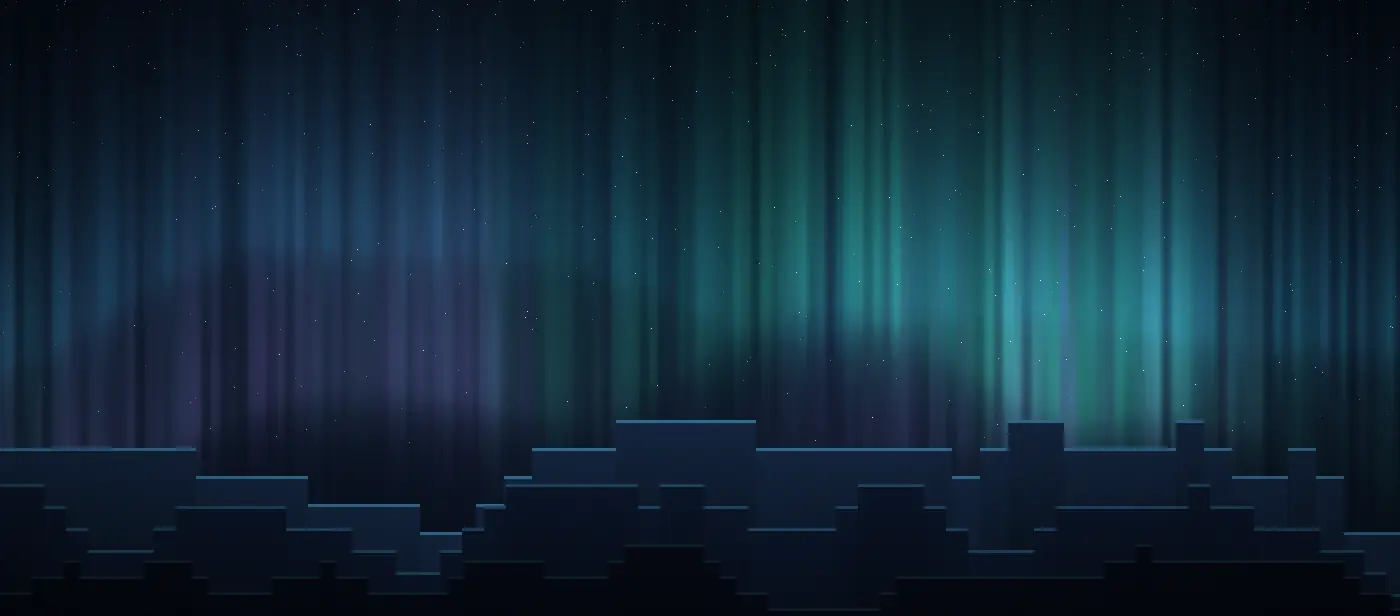
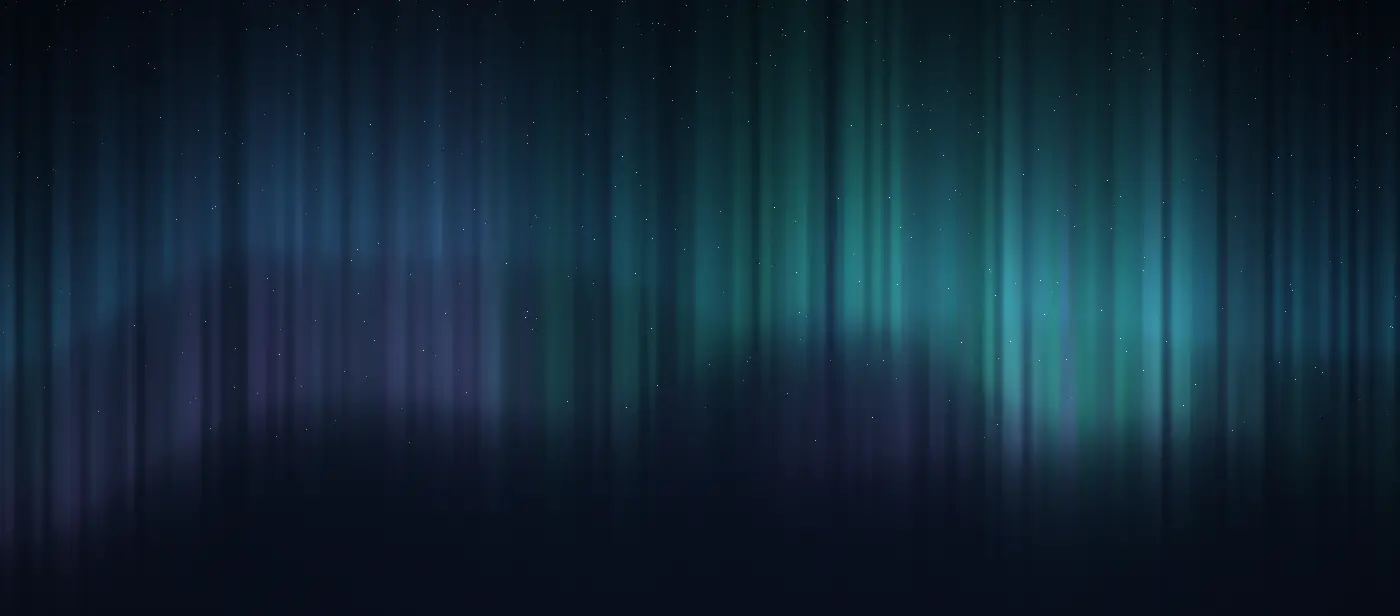
feat: kurumsal hero, Lua ve Roblox eklendi, söz Carl Jung'a atfedildi

diff --git a/generator/build.py b/generator/build.py
@@ -210,14 +210,14 @@ class Svg:
                 f'<style>{style}</style><defs>{"".join(self.defs)}</defs>{"".join(self.body)}</svg>')
 
 
-def panel(label, command, width, height, updated="", style=""):
-    """Dark terminal card shared by every data panel. Reads the same on light and dark GitHub themes."""
+def panel(label, title, width, height, updated="", style=""):
+    """Dark card shared by every data panel. Reads the same on light and dark GitHub themes."""
     svg = Svg(width, height, label, style)
     svg.defs.append(f'<linearGradient id="edge" x1="0" y1="0" x2="1" y2="0"><stop offset="0" stop-color="{TEAL}"/>'
                     f'<stop offset=".5" stop-color="{CYAN}"/><stop offset="1" stop-color="{VIOLET}"/></linearGradient>')
     svg.add(f'<rect x=".5" y=".5" width="{width - 1}" height="{height - 1}" rx="14" fill="{PANEL}" stroke="{LINE}"/>',
             f'<rect x="24" y="0" width="{width - 48}" height="1.5" fill="url(#edge)"/>',
-            svg.text("$", 24, 37, 15, TEAL, "monob"), svg.text(command, 42, 37, 15, INK2))
+            svg.text(title, 24, 39, 18, INK, "sansb"))
     if updated:
         svg.add(f'<circle cx="{width - 24 - svg.measure(updated, 12) - 13}" cy="32" r="3.5" fill="{TEAL}">'
                 '<animate attributeName="opacity" values="1;.25;1" dur="2.4s" repeatCount="indefinite"/></circle>',
@@ -231,126 +231,60 @@ def image_uri(name):
 
 # ─────────────────────────────── hero ────────────────────────────────
 
-LETTERS = {
-    "L": ("#....", "#....", "#....", "#....", "#....", "#....", "#####"),
-    "O": (".###.", "#...#", "#...#", "#...#", "#...#", "#...#", ".###."),
-    "R": ("####.", "#...#", "#...#", "####.", "#.#..", "#..#.", "#...#"),
-    "D": ("####.", "#...#", "#...#", "#...#", "#...#", "#...#", "####."),
-}
-TAGLINES = (
-    "backend developer @ AesirMC",
-    "software engineering @ Aksaray University",
-    "java · sql · docker · mongodb · redis",
-    "building game server infrastructure at scale",
-    "coffee.level = CRITICAL, refilling...",
-)
-
-
-def voxel_word(word, ox, oy, s):
-    """Extruded block letters in a cabinet projection. Faces: front, top, right."""
-    ux, uy = s, -s * 0.05         # one column to the right
-    bx, by = s * 0.46, -s * 0.34  # extrusion towards the back
-    columns = sum(5 for _ in word) + len(word) - 1
-    rng = random.Random(4)
-    cubes = []
-    col = 0
-    for letter in word:
-        for r, row in enumerate(LETTERS[letter]):
-            for c, cell in enumerate(row):
-                if cell == "#":
-                    cubes.append((col + c, 6 - r))
-        col += 6
-    cubes.sort(key=lambda p: (p[1], p[0]))  # bottom-up, left-to-right, so nearer faces paint last
-    out = []
-    for c, h in cubes:
-        x0, y0 = ox + c * ux, oy + c * uy - h * s
-        t = c / (columns - 1)
-        base = mix(TEAL, CYAN, t * 2) if t <= 0.5 else mix(CYAN, VIOLET, (t - 0.5) * 2)
-        front = [(x0, y0), (x0 + ux, y0 + uy), (x0 + ux, y0 + uy - s), (x0, y0 - s)]
-        top = [front[3], front[2], (front[2][0] + bx, front[2][1] + by), (front[3][0] + bx, front[3][1] + by)]
-        side = [front[1], (front[1][0] + bx, front[1][1] + by), (front[2][0] + bx, front[2][1] + by), front[2]]
-        pts = lambda p: " ".join(f"{num(a)},{num(b)}" for a, b in p)
-        delay = c * 28 + rng.randrange(0, 180)
-        shine = c * 90 + 1800
-        out.append(
-            f'<g class="drop" style="animation-delay:{delay}ms">'
-            f'<polygon points="{pts(side)}" fill="{mix(base, "#050814", .62)}"/>'
-            f'<polygon points="{pts(top)}" fill="{mix(base, "#FFFFFF", .42)}"/>'
-            f'<polygon points="{pts(front)}" fill="{mix(base, "#0A1020", .12)}" stroke="{mix(base, "#FFFFFF", .55)}" stroke-width=".7"/>'
-            f'<polygon class="shine" style="animation-delay:{shine}ms" points="{pts(front)}" fill="#FFF"/></g>')
-    return "".join(out)
-
-
-def typing_bar(svg, cx, y, size):
-    """Cycling typewriter line. Each row reveals through a stepped clip, driven by SMIL."""
-    per_line, hold = 4.2, 0.62
-    total = per_line * len(TAGLINES)
-    advance = GLYPHS["mono"]["a"][1] * size / 1000
-    prompt = "lord@aesirmc:~$ "
-    width = max(len(t) for t in TAGLINES) * advance + len(prompt) * advance
-    x = cx - width / 2
-    box = f'<rect x="{num(x - 18)}" y="{y - size - 12}" width="{num(width + 36)}" height="{size + 28}" rx="9" fill="#060A12" fill-opacity=".72" stroke="#FFFFFF" stroke-opacity=".12"/>'
-    text_x = x + len(prompt) * advance
-    rows = []
-    for i, line in enumerate(TAGLINES):
-        n = len(line)
-        start, typed, end = i / len(TAGLINES), (i + hold) / len(TAGLINES), (i + 0.97) / len(TAGLINES)
-        times, widths = [0.0], [0.0]
-        for k in range(n + 1):
-            times.append(start + (typed - start) * 0.72 * k / n)
-            widths.append(k * advance + (advance if k == n else 0))
-        if i == 0:
-            times, widths = times[1:], widths[1:]
-        times += [end, min(end + 0.0005, 1.0)]
-        widths += [widths[-1], 0.0]
-        if times[-1] < 1:
-            times.append(1.0)
-            widths.append(0.0)
-        svg.defs.append(
-            f'<clipPath id="ty{i}"><rect x="{num(text_x)}" y="{y - size - 8}" width="0" height="{size + 20}">'
-            f'<animate attributeName="width" calcMode="discrete" dur="{total}s" repeatCount="indefinite" '
-            f'values="{";".join(num(w) for w in widths)}" keyTimes="{";".join(f"{t:.4f}" for t in times)}"/></rect></clipPath>')
-        rows.append(f'<g clip-path="url(#ty{i})">{svg.text(line, text_x, y, size, INK)}</g>')
-    return box + svg.text(prompt.rstrip(), x, y, size, TEAL, "monob") + "".join(rows)
-
-
-def hero(layout):
+def hero(d, layout):
     wide = layout == WIDE
-    width, height = (WIDE, 460) if wide else (NARROW, 420)
-    style = (".drop{animation:drop 1s cubic-bezier(.2,1.25,.35,1) both}"
-             "@keyframes drop{from{transform:translateY(-420px);opacity:0}}"
-             ".shine{opacity:0;animation:shine 9s ease-in-out infinite}"
-             "@keyframes shine{0%,7%,100%{opacity:0}3.5%{opacity:.5}}"
-             ".fade{animation:fade 12s ease-in-out infinite alternate}"
-             "@keyframes fade{0%,25%{opacity:0}75%,100%{opacity:1}}"
-             ".up{animation:up 1s ease-out both}@keyframes up{from{transform:translateY(14px);opacity:0}}"
-             ".mote{animation:mote linear infinite}"
-             "@keyframes mote{from{transform:translateY(0);opacity:0}15%{opacity:.8}to{transform:translateY(-170px);opacity:0}}")
-    svg = Svg(width, height, "Lord — Mahmut Taylan Öztürk. Backend Developer, Java Ecosystem, Game Server Architect.", style)
+    width, height = (WIDE, 400) if wide else (NARROW, 470)
+    style = (".fade{animation:fade 14s ease-in-out infinite alternate}"
+             "@keyframes fade{0%,20%{opacity:0}80%,100%{opacity:1}}"
+             ".up{animation:up .9s ease-out both}@keyframes up{from{transform:translateY(10px);opacity:0}}")
+    svg = Svg(width, height, "Mahmut Taylan Öztürk. Backend Developer: Java ecosystem, game server architecture and Roblox development.", style)
     svg.defs.append(f'<clipPath id="card"><rect width="{width}" height="{height}" rx="16"/></clipPath>'
-                    '<linearGradient id="veil" x1="0" y1="0" x2="0" y2="1"><stop offset=".45" stop-color="#050812" stop-opacity="0"/>'
-                    '<stop offset="1" stop-color="#050812" stop-opacity=".82"/></linearGradient>')
-    image = 'x="{x}" y="0" width="{w}" height="{h}" preserveAspectRatio="xMidYMid slice"'.format(
-        x=0 if wide else -240, w=WIDE, h=height)
+                    '<linearGradient id="scrim" x1="0" y1="0" x2="1" y2="0"><stop offset="0" stop-color="#070B13"/>'
+                    '<stop offset=".5" stop-color="#070B13" stop-opacity=".8"/><stop offset="1" stop-color="#070B13" stop-opacity=".04"/></linearGradient>'
+                    f'<linearGradient id="rule" x1="0" y1="0" x2="1" y2="0"><stop offset="0" stop-color="{TEAL}"/>'
+                    f'<stop offset=".5" stop-color="{CYAN}"/><stop offset="1" stop-color="{VIOLET}"/></linearGradient>')
+    image = f'x="{0 if wide else -240}" y="0" width="{WIDE}" height="{height}" preserveAspectRatio="xMidYMid slice"'
     svg.add('<g clip-path="url(#card)">',
             f'<image {image} href="{image_uri("aurora-a.webp")}"/>',
             f'<image class="fade" {image} href="{image_uri("aurora-b.webp")}"/>',
-            f'<rect width="{width}" height="{height}" fill="url(#veil)"/>')
-    rng = random.Random(9)
-    for _ in range(12):
-        x, y, s = rng.uniform(30, width - 30), rng.uniform(height * .7, height - 16), rng.choice((2, 3))
-        svg.add(f'<rect class="mote" style="animation-duration:{rng.uniform(7, 15):.1f}s;animation-delay:-{rng.uniform(0, 15):.1f}s" '
-                f'x="{x:.0f}" y="{y:.0f}" width="{s}" height="{s}" fill="{rng.choice((TEAL, CYAN, VIOLET))}"/>')
-    block = 25 if wide else 17
-    word_w = 23 * block + block * .46
-    svg.add(voxel_word("LORD", (width - word_w) / 2, (256 if wide else 190), block))
-    cx = width / 2
-    name_y, role_y, bar_y = (318, 350, 410) if wide else (250, 282, 366)
-    svg.add(f'<g class="up" style="animation-delay:1.4s">{svg.text("Mahmut Taylan Öztürk", cx, name_y, 36 if wide else 30, "#FFFFFF", "sansb", "middle", .4)}</g>')
-    role = ("BACKEND DEVELOPER  ·  JAVA ECOSYSTEM  ·  GAME SERVER ARCHITECT", 14.5, 2.2) if wide else ("BACKEND  ·  JAVA  ·  GAME SERVERS", 13.5, 2)
-    svg.add(f'<g class="up" style="animation-delay:1.6s">{svg.text(role[0], cx, role_y, role[1], "#BFD4E6", "mono", "middle", role[2])}</g>')
-    svg.add(f'<g class="up" style="animation-delay:1.9s">{typing_bar(svg, cx, bar_y, 16 if wide else 12.5)}</g>')
-    svg.add(f'<rect x=".75" y=".75" width="{width - 1.5}" height="{height - 1.5}" rx="15.5" fill="none" stroke="#FFF" stroke-opacity=".1" stroke-width="1.5"/></g>')
+            f'<rect width="{width}" height="{height}" fill="url(#scrim)"/>',
+            f'<rect width="{width}" height="2" fill="url(#rule)"/>')
+    figures = ((fmt(d["all_time"]), "CONTRIBUTIONS"), ("800K+", "LINES OF JAVA"), (str(d["longest"]), "DAY LONGEST STREAK"))
+    soft = "#C6D3E0"
+    if wide:
+        left = 56
+        svg.add('<g class="up">', svg.text("BACKEND DEVELOPER", left, 92, 13, TEAL, "monob", spacing=3.2),
+                svg.text("Mahmut Taylan", left, 164, 68, "#FFFFFF", "sansb", spacing=-.6),
+                svg.text("Öztürk", left, 236, 68, "#FFFFFF", "sansb", spacing=-.6),
+                svg.text("Java ecosystem, game server architecture", left, 282, 18, soft, "sans"),
+                svg.text("and Roblox development.", left, 308, 18, soft, "sans"),
+                svg.text("AesirMC   ·   Aksaray University   ·   Türkiye", left, 352, 13, "#93A3B7"), "</g>")
+        rx = 690
+        svg.add(f'<g class="up" style="animation-delay:.25s"><rect x="{rx - 38}" y="72" width="1" height="256" fill="#FFF" fill-opacity=".16"/>')
+        for i, (value, caption) in enumerate(figures):
+            y = 112 + i * 92
+            svg.add(svg.text(value, rx, y, 44, "#FFFFFF", "sansb"),
+                    svg.text(caption, rx, y + 24, 11.5, soft, spacing=1.6))
+            if i < 2:
+                svg.add(f'<rect x="{rx}" y="{y + 42}" width="250" height="1" fill="#FFF" fill-opacity=".12"/>')
+        svg.add("</g>")
+    else:
+        left = 32
+        svg.add('<g class="up">', svg.text("BACKEND DEVELOPER", left, 62, 12.5, TEAL, "monob", spacing=3),
+                svg.text("Mahmut Taylan", left, 124, 56, "#FFFFFF", "sansb", spacing=-.5),
+                svg.text("Öztürk", left, 184, 56, "#FFFFFF", "sansb", spacing=-.5),
+                svg.text("Java ecosystem, game server architecture", left, 228, 16.5, soft, "sans"),
+                svg.text("and Roblox development.", left, 252, 16.5, soft, "sans"), "</g>")
+        cell = (width - 2 * left) / 3
+        svg.add('<g class="up" style="animation-delay:.25s">',
+                f'<rect x="{left}" y="288" width="{width - 2 * left}" height="1" fill="#FFF" fill-opacity=".16"/>')
+        for i, (value, caption) in enumerate(figures):
+            x = left + i * cell
+            svg.add(svg.text(value, x, 340, 32, "#FFFFFF", "sansb"))
+            for k, part in enumerate(caption.replace("DAY LONGEST ", "DAY LONGEST|").replace("LINES OF ", "LINES OF|").split("|")):
+                svg.add(svg.text(part, x, 362 + k * 15, 10, soft, spacing=1))
+        svg.add("</g>", svg.text("AesirMC   ·   Aksaray University   ·   Türkiye", left, 430, 12.5, "#93A3B7"))
+    svg.add(f'<rect x=".75" y=".75" width="{width - 1.5}" height="{height - 1.5}" rx="15.5" fill="none" stroke="#FFF" stroke-opacity=".08" stroke-width="1.5"/></g>')
     return svg
 
 
@@ -410,7 +344,7 @@ def stats(d, layout):
             ".rise{animation:grow .9s cubic-bezier(.2,.9,.3,1) both;transform-box:fill-box;transform-origin:bottom}@keyframes grow{from{transform:scaleY(0)}}"
     label = (f"GitHub stats: {fmt(d['year_total'])} contributions in the last 12 months, {fmt(d['all_time'])} all time, "
              f"longest streak {d['longest']} days, current streak {d['streak']} days, best day {d['peak']}.")
-    svg = panel(label, "git log --stat", width, height, f"updated {d['updated']}", style)
+    svg = panel(label, "GitHub Statistics", width, height, f"updated {d['updated']}", style)
     share = round(d["active"] / d["days"] * 100)
     peak_day = dt.date.fromisoformat(d["peak_date"]).strftime("%d %b %Y")
     gap = 12
@@ -472,11 +406,11 @@ def city(d, layout):
     height = int(origin_y + 7 * by + 74)
     style = ".wk{animation:rise .7s cubic-bezier(.2,1.1,.35,1) both}@keyframes rise{from{transform:translateY(46px);opacity:0}}"
     label = f"Contribution city: {fmt(d['year_total'])} contributions in the last 12 months, drawn as one voxel column per day."
-    svg = panel(label, "render --city ./contributions", width, height, f"{fmt(d['year_total'])} in 12 months", style)
+    svg = panel(label, "Contribution City", width, height, "", style)
     peak = max(c for w in weeks for _, c in w) or 1
     if wide:
-        svg.add(svg.text("Contribution City", 30, 98, 30, INK, "sansb"),
-                svg.text("One tower for every day of the last year.", 30, 124, 13.5, INK2))
+        svg.add(svg.text(fmt(d["year_total"]), 30, 112, 46, INK, "sansb"),
+                svg.text("contributions in the last 12 months, one tower per day", 30, 138, 13.5, INK2))
 
     def project(w, day, lift=0.0):
         return origin_x + w * ax + day * bx, origin_y - w * ay + day * by - lift
@@ -575,7 +509,7 @@ def activity(d, layout):
     style = (".draw{stroke-dasharray:1;stroke-dashoffset:0;animation:draw 2.2s ease-out both}@keyframes draw{from{stroke-dashoffset:1}}"
              ".area{animation:show 1.2s 1.2s both}.pin{animation:show .5s 2s both}@keyframes show{from{opacity:0}}")
     label = f"Activity graph: {fmt(total)} contributions in the last {span} days."
-    svg = panel(label, f"git activity --days {span}", width, height, f"{fmt(total)} in {span} days · {num(total / span)} per day", style)
+    svg = panel(label, f"Activity, Last {span} Days", width, height, f"{fmt(total)} in {span} days · {num(total / span)} per day", style)
     left, right, top, bottom = 52, width - 26, 66, height - 42
     ceiling = nice_ceiling(max(c for _, c in days))
     sx = lambda i: left + (right - left) * i / (len(days) - 1)
@@ -615,7 +549,7 @@ def languages(d, layout):
     height = 70 + rows * 44 + 8
     style = ".bar{animation:grow 1.2s cubic-bezier(.2,.9,.3,1) both;transform-box:fill-box;transform-origin:left}@keyframes grow{from{transform:scaleX(0)}}"
     summary = ", ".join(f"{n} {s * 100:.1f}%" for n, s in entries[:5])
-    svg = panel(f"Top languages: {summary}.", "linguist --top 8", width, height, "public + private projects", style)
+    svg = panel(f"Top languages: {summary}.", "Top Languages", width, height, "public + private projects", style)
     col_w = (width - 48 - 32 * (columns - 1)) / columns
     name_w, value_w = 92, 56
     track_w = col_w - name_w - value_w
@@ -666,7 +600,7 @@ def trophies(d, layout):
     style = (".sweep{animation:sweep 6s ease-in-out infinite}@keyframes sweep{0%,55%{transform:translateX(-120px)}85%,100%{transform:translateX(120px)}}"
              ".medal{animation:pop .7s cubic-bezier(.2,1.5,.4,1) both;transform-box:fill-box;transform-origin:center}@keyframes pop{from{transform:scale(.4);opacity:0}}")
     label = "Trophies: " + ", ".join(f"{t} {TIERS[r][1].title()}" for r, t, _ in earned) + "."
-    svg = panel(label, "achievements --earned", width, int(height), style=style)
+    svg = panel(label, "Trophies", width, int(height), style=style)
     R = 44
     for i, (tier, title, shown) in enumerate(earned):
         col, row = i % per_row, i // per_row
@@ -691,14 +625,14 @@ def trophies(d, layout):
 
 STACK = (
     ("LANGUAGES", (("java", "Java", "#F89820"), ("kotlin", "Kotlin", "#A97BFF"), ("typescript", "TypeScript", "#3178C6"),
-                   ("python", "Python", "#FFD43B"), ("javascript", "JavaScript", "#F7DF1E"), ("text:C#", "C#", "#9B6BDF"))),
+                   ("python", "Python", "#FFD43B"), ("javascript", "JavaScript", "#F7DF1E"), ("lua", "Lua", "#7C8FF5"), ("text:C#", "C#", "#9B6BDF"))),
     ("DATA", (("mongodb", "MongoDB", "#47A248"), ("redis", "Redis", "#FF5A4F"), ("mariadb", "MariaDB", "#C0765A"),
               ("text:My", "MySQL", "#5B9BD5"), ("postgresql", "PostgreSQL", "#6C93D9"))),
     ("INFRA", (("docker", "Docker", "#2496ED"), ("linux", "Linux", "#FCC624"), ("nginx", "Nginx", "#21B05A"),
                ("grafana", "Grafana", "#F46800"), ("actions", "Actions", "#5A9BF6"), ("gradle", "Gradle", "#3DB8C5"),
                ("git", "Git", "#F05032"))),
-    ("GAME SERVER", ((None, "Minecraft", "#62B47A"), (None, "PaperMC", "#EDEDED"), (None, "Velocity", "#3CC8D0"),
-                     ("pterodactyl", "Pterodactyl", "#6AA6E8"), (None, "ProtocolLib", "#C98BFF"))),
+    ("GAME DEV", (("roblox", "Roblox", "#E8EEF5"), ("robloxstudio", "Roblox Studio", "#38A7FF"), (None, "Minecraft", "#62B47A"), (None, "PaperMC", "#EDEDED"), (None, "Velocity", "#3CC8D0"),
+                     ("pterodactyl", "Pterodactyl", "#6AA6E8"))),
 )
 
 
@@ -726,7 +660,7 @@ def stack(layout):
     height = 62
     for _, lines in blocks:
         height += (len(lines) * (chip_h + 8)) + (22 if not wide else 0) + 10
-    svg = panel(f"Tech stack: {names}.", "ls ~/stack", width, height + 8, style=style)
+    svg = panel(f"Tech stack: {names}.", "Technology Stack", width, height + 8, style=style)
     for caption, lines in blocks:
         label_y = y + 24 if wide else y + 10
         svg.add(svg.text(caption, 24, label_y, 11, INK3, spacing=1.2))
@@ -757,7 +691,7 @@ def repo_card(node):
     width, height = 490, 176
     style = ".lift{animation:up .8s ease-out both}@keyframes up{from{transform:translateY(10px);opacity:0}}"
     description = node["description"] or "No description yet."
-    svg = panel(f"Repository {node['name']}: {description}", f"cd ~/{node['name']}", width, height, style=style)
+    svg = panel(f"Repository {node['name']}: {description}", "Open Source", width, height, style=style)
     svg.add('<g class="lift">', svg.text(node["name"], 24, 84, 26, INK, "sansb"))
     for i, line in enumerate(textwrap.wrap(description.encode("ascii", "ignore").decode(), 55)[:2]):
         svg.add(svg.text(line, 24, 110 + i * 19, 13, INK2))
@@ -803,18 +737,18 @@ DISCORD_ICON = "M20.32 4.37A19.8 19.8 0 0 0 15.43 2.8a13.7 13.7 0 0 0-.63 1.28 1
 
 def footer(layout):
     wide = layout == WIDE
-    width, height = (WIDE, 210) if wide else (NARROW, 220)
+    width, height = (WIDE, 170) if wide else (NARROW, 190)
     svg = Svg(width, height, "No tree can grow to heaven unless its roots reach down to hell.")
     svg.defs.append(f'<clipPath id="card"><rect width="{width}" height="{height}" rx="16"/></clipPath>')
     svg.add('<g clip-path="url(#card)">',
-            f'<image x="{0 if wide else -240}" y="-218" width="{WIDE}" height="440" preserveAspectRatio="xMidYMid slice" href="{image_uri("aurora-b.webp")}"/>',
+            f'<image x="{0 if wide else -240}" y="-160" width="{WIDE}" height="440" preserveAspectRatio="xMidYMid slice" href="{image_uri("aurora-b.webp")}"/>',
             f'<rect width="{width}" height="{height}" fill="#050812" fill-opacity=".3"/>')
     if wide:
-        svg.add(svg.text("No tree can grow to heaven unless its roots reach down to hell.", width / 2, 88, 22, "#FFFFFF", "sansb", "middle"))
+        svg.add(svg.text("No tree can grow to heaven unless its roots reach down to hell.", width / 2, 84, 22, "#FFFFFF", "sansb", "middle"))
     else:
         svg.add(svg.text("No tree can grow to heaven", width / 2, 76, 22, "#FFFFFF", "sansb", "middle"),
                 svg.text("unless its roots reach down to hell.", width / 2, 108, 22, "#FFFFFF", "sansb", "middle"))
-    svg.add(svg.text("FRIEDRICH NIETZSCHE", width / 2, (120 if wide else 140), 11, "#BFD4E6", "mono", "middle", 2.4), "</g>")
+    svg.add(svg.text("CARL JUNG", width / 2, (116 if wide else 142), 11, "#BFD4E6", "mono", "middle", 2.4), "</g>")
     return svg
 
 
@@ -834,7 +768,7 @@ def main():
 
     files = {}
     for suffix, layout in (("", WIDE), ("-narrow", NARROW)):
-        files[f"hero{suffix}.svg"] = hero(layout)
+        files[f"hero{suffix}.svg"] = hero(d, layout)
         files[f"stats{suffix}.svg"] = stats(d, layout)
         files[f"city{suffix}.svg"] = city(d, layout)
         files[f"activity{suffix}.svg"] = activity(d, layout)

diff --git a/generator/tools/bake_assets.py b/generator/tools/bake_assets.py
@@ -23,7 +23,7 @@ ICONS = {
     "csharp": "dotnet", "mongodb": "mongodb", "mariadb": "mariadb", "mysql": "mysql", "redis": "redis",
     "postgresql": "postgresql", "docker": "docker", "linux": "linux", "git": "git", "github": "github",
     "actions": "githubactions", "nginx": "nginx", "gradle": "gradle", "grafana": "grafana", "nextjs": "nextdotjs",
-    "pterodactyl": "pterodactyl",
+    "pterodactyl": "pterodactyl", "lua": "lua", "roblox": "roblox", "robloxstudio": "robloxstudio",
 }
 
 
@@ -101,18 +101,6 @@ def aurora(w, h, seed, phase):
         profile = np.where(depth > 0, np.exp(-depth * 1.5) * (1 - 0.55 * np.exp(-depth * 3)), 0.45 * np.exp(depth * 5))
         light = profile * (0.28 + 0.72 * rays[None, :]) * envelope[None, :] * gain
         img += light[..., None] * np.array(colour, dtype=np.float32) * 0.92
-
-    # Stepped voxel ridges in three depth layers.
-    for layer, (level, relief, step, shade) in enumerate(((0.78, 0.17, 28, (20, 38, 64)), (0.86, 0.12, 22, (12, 22, 42)), (0.94, 0.07, 16, (6, 10, 20)))):
-        ridge_rng = np.random.default_rng(100 + layer)
-        ridge = smooth_noise(w, 9 + layer * 4, ridge_rng) * 0.65 + smooth_noise(w, 26, ridge_rng) * 0.35
-        stepped = np.repeat(ridge[::step], step)[:w]
-        line = np.round(((level - relief * (stepped - 0.5) * 2) * h) / step) * step
-        mask = yy >= line[None, :]
-        below = np.clip((yy - line[None, :]) / (h * 0.22), 0, 1)[..., None]
-        img = np.where(mask[..., None], np.array(shade, dtype=np.float32) * (1 - below * 0.45), img)
-        rim = mask & (yy < line[None, :] + 3)
-        img[rim] += np.array((30, 74, 84), dtype=np.float32) * (1 - layer * 0.35)
 
     # Vignette plus grain, which keeps the dark gradients from banding.
     d = ((xx / w - 0.5) ** 2 * 1.3 + (v - 0.5) ** 2 * 0.8)

diff --git a/README.md b/README.md
@@ -3,12 +3,12 @@
 <p align="center">
 <picture>
   <source media="(max-width: 640px)" srcset="https://raw.githubusercontent.com/MTaylanOzturk/MTaylanOzturk/output/hero-narrow.svg" />
-  <img src="https://raw.githubusercontent.com/MTaylanOzturk/MTaylanOzturk/output/hero.svg" width="100%" alt="Lord: Mahmut Taylan Öztürk. Backend Developer, Java Ecosystem, Game Server Architect." />
+  <img src="https://raw.githubusercontent.com/MTaylanOzturk/MTaylanOzturk/output/hero.svg" width="100%" alt="Mahmut Taylan Öztürk. Backend Developer: Java ecosystem, game server architecture and Roblox development." />
 </picture>
 </p>
 
 <p align="center">
-I started writing code at <b>15</b> and never stopped. Today I build backend systems in the <b>Java ecosystem</b> at <b>AesirMC</b>, a live game server network, while studying <b>Software Engineering</b> at <b>Aksaray University</b>.
+I started writing code at <b>15</b> and never stopped. Today I build backend systems in the <b>Java ecosystem</b> at <b>AesirMC</b>, a live game server network, while studying <b>Software Engineering</b> at <b>Aksaray University</b>. I have also started building games on <b>Roblox</b> with <b>Lua</b>.
 </p>
 
 <p align="center">
@@ -59,7 +59,7 @@ I started writing code at <b>15</b> and never stopped. Today I build backend sys
 <p align="center">
 <picture>
   <source media="(max-width: 640px)" srcset="https://raw.githubusercontent.com/MTaylanOzturk/MTaylanOzturk/output/stack-narrow.svg" />
-  <img src="https://raw.githubusercontent.com/MTaylanOzturk/MTaylanOzturk/output/stack.svg" width="100%" alt="Tech stack: languages, data, infrastructure and game server tools" />
+  <img src="https://raw.githubusercontent.com/MTaylanOzturk/MTaylanOzturk/output/stack.svg" width="100%" alt="Technology stack: languages, data, infrastructure and game development" />
 </picture>
 </p>
 
@@ -79,7 +79,7 @@ I started writing code at <b>15</b> and never stopped. Today I build backend sys
 <p align="center">
 <picture>
   <source media="(max-width: 640px)" srcset="https://raw.githubusercontent.com/MTaylanOzturk/MTaylanOzturk/output/footer-narrow.svg" />
-  <img src="https://raw.githubusercontent.com/MTaylanOzturk/MTaylanOzturk/output/footer.svg" width="100%" alt="No tree can grow to heaven unless its roots reach down to hell. Friedrich Nietzsche." />
+  <img src="https://raw.githubusercontent.com/MTaylanOzturk/MTaylanOzturk/output/footer.svg" width="100%" alt="No tree can grow to heaven unless its roots reach down to hell. Carl Jung." />
 </picture>
 </p>
 
